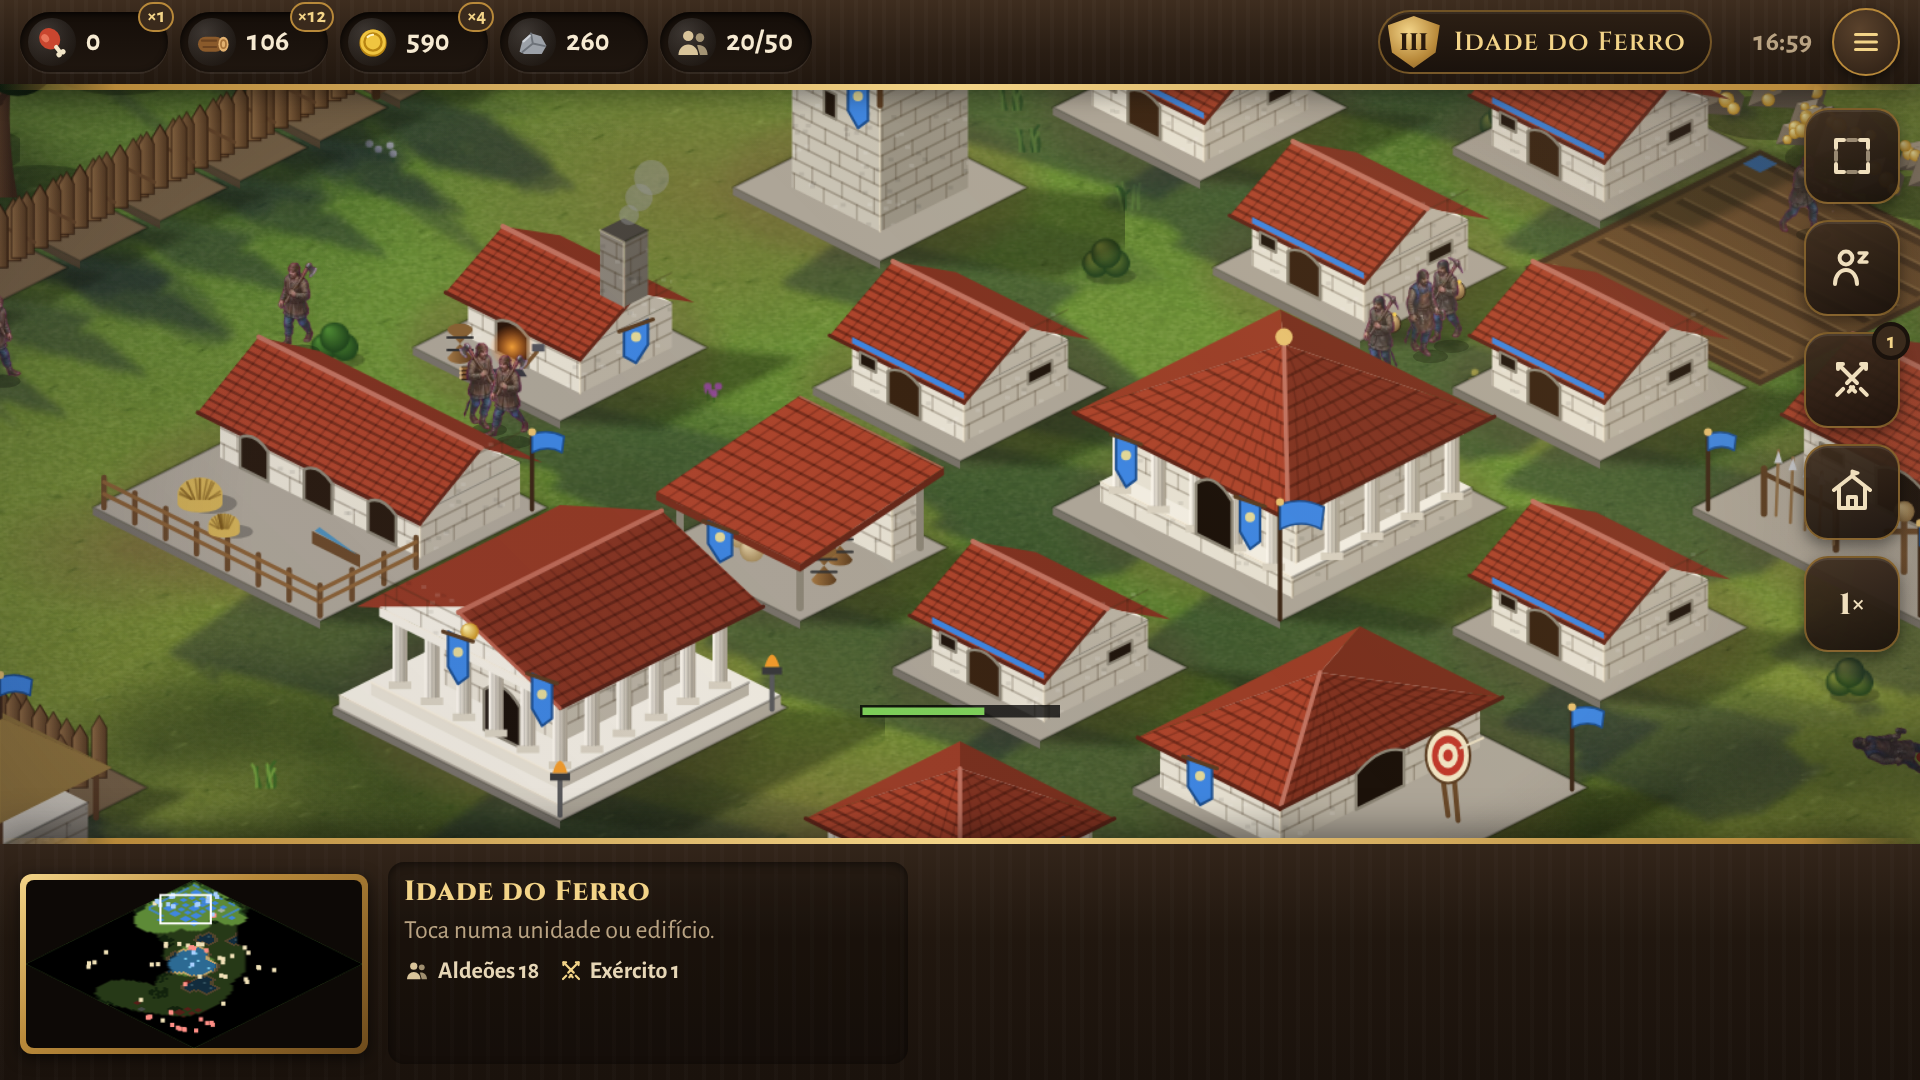
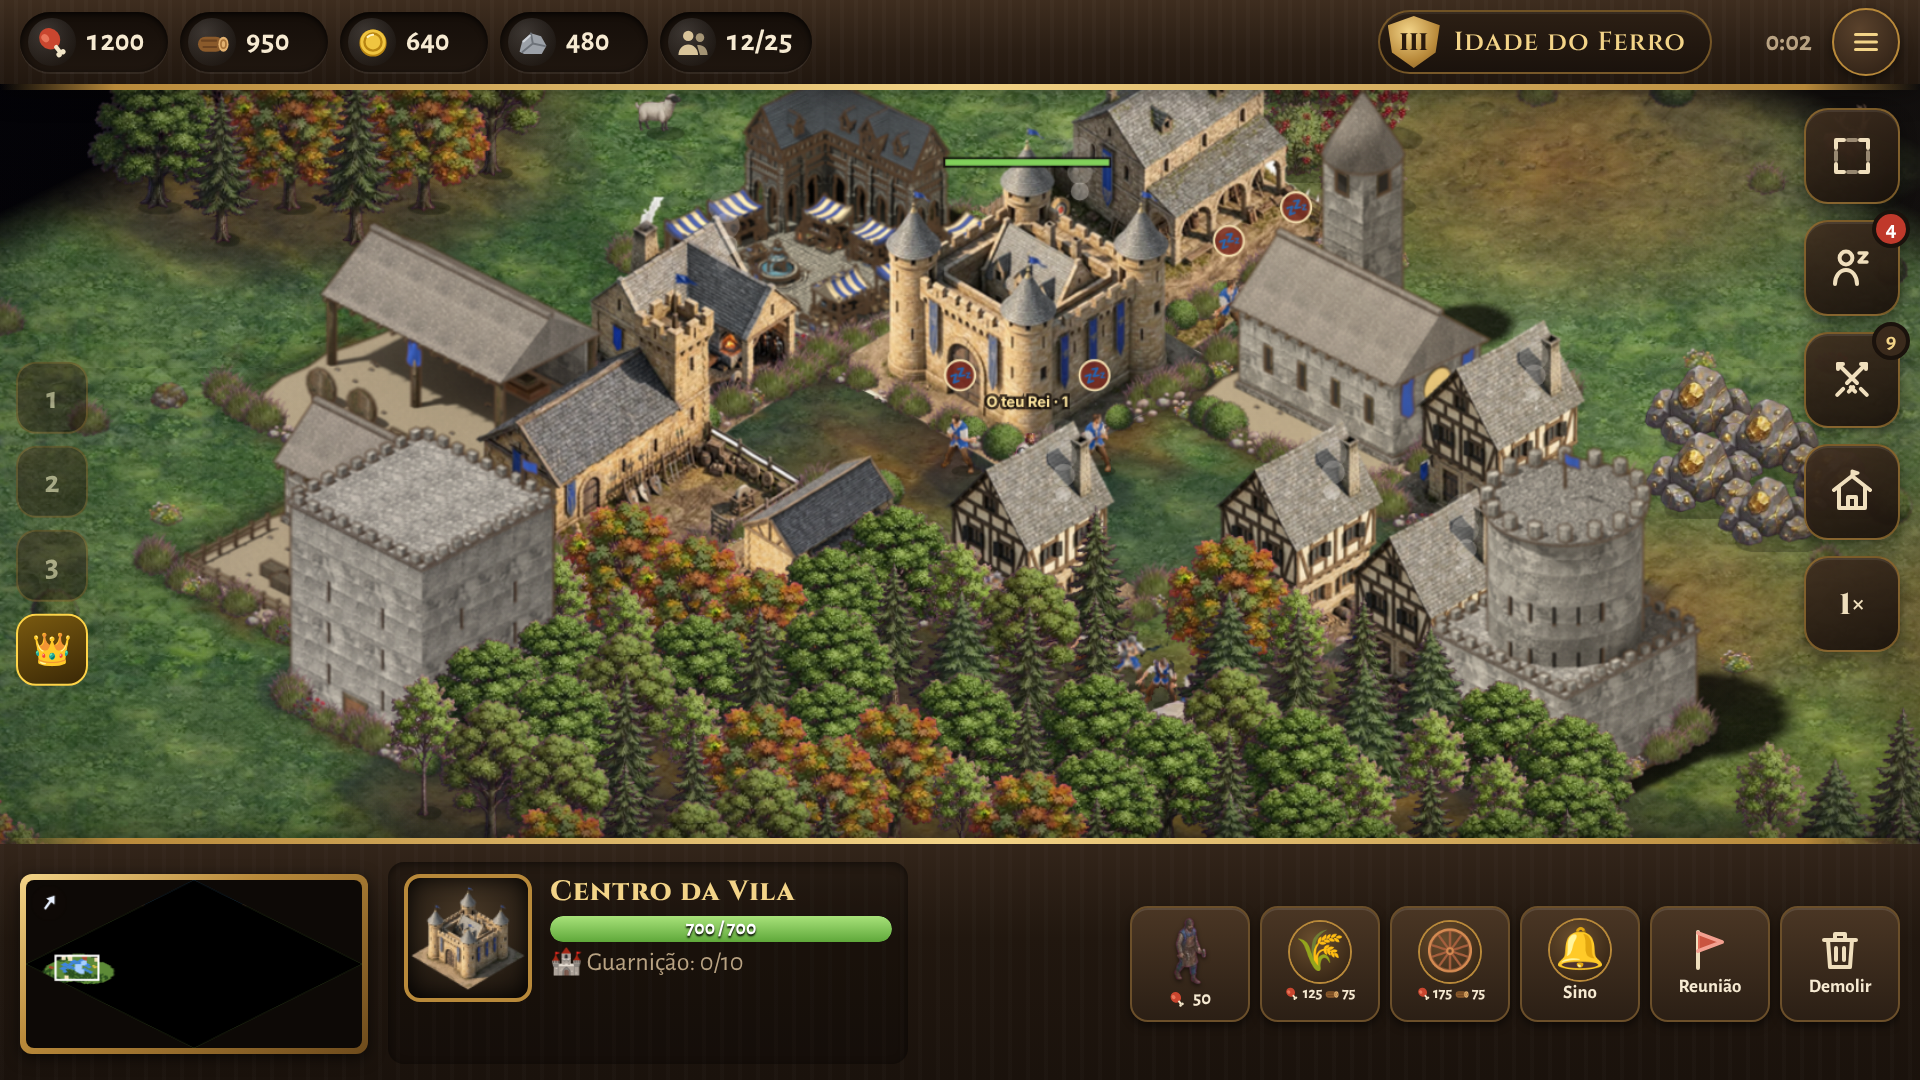
Play Store: capturas novas com a arte 3D (aldeia, batalha nas muralhas, mercado) tiradas do jogo por loja/capturas.py
Claude-Session: https://claude.ai/code/session_014ciWqXDsXJyNB2BSF4RBLv

diff --git a/loja/capturas.py b/loja/capturas.py
@@ -1,0 +1,50 @@
+# Capturas da Play Store (1920×1080) tiradas do jogo a correr, com a arte 3D: aldeia, batalha nas muralhas e mercado.
+# Uso: servidor em localhost:8777 (www) e  python3 loja/capturas.py [pasta-de-saída]
+import asyncio, sys
+from playwright.async_api import async_playwright
+OUT = sys.argv[1] if len(sys.argv) > 1 else 'loja'
+START = """async()=>{startGame(4242,{map:'rios',vic:'classico',civ:['planicies','mar']})}"""
+HELP = """()=>{window.__c=ents.find(e=>e.type==='centro'&&e.o===ME);window.__q0=centerOf(__c);
+  window.__put=(o,t,near,r0=3)=>{for(let r=r0;r<45;r++)for(let a=0;a<64;a++){const tx=Math.round(near.x+Math.cos(a/64*6.283)*r),ty=Math.round(near.y+Math.sin(a/64*6.283)*r);if(canPlace(t,tx,ty,ME,0,true)){const b=mkBld(o,t,tx,ty,true);return b}}return null};
+  window.__free=(x,y,w,h)=>{for(let j=-1;j<=h;j++)for(let i=-1;i<=w;i++){const tx=x+i,ty=y+j;if(!inb(tx,ty)||!okTile(idx(tx,ty))||bldAt[idx(tx,ty)]||resAt[idx(tx,ty)])return false}return true};
+  window.__spot=(w,h,near,r0=4)=>{for(let r=r0;r<70;r++)for(let a=0;a<64;a++){const x=Math.round(near.x+Math.cos(a/64*6.283)*r),y=Math.round(near.y+Math.sin(a/64*6.283)*r);if(__free(x,y,w,h))return{x,y}}return null};
+  for(const p of P)if(p){p.res.food=1200;p.res.wood=950;p.res.gold=640;p.res.stone=480}}"""
+async def cena(br, nome, js, espera=1500):
+    pg = await br.new_page(viewport={'width': 960, 'height': 540}, device_scale_factor=2); errs = []
+    pg.on('pageerror', lambda e: errs.append(str(e)[:200]))
+    await pg.goto('http://localhost:8777/index.html'); await pg.wait_for_timeout(2500)
+    await pg.evaluate(START); await pg.wait_for_timeout(2500)
+    await pg.add_style_tag(content='#sLogin,#menuBg{display:none!important}')
+    await pg.evaluate(HELP); r = await pg.evaluate(js); await pg.wait_for_timeout(espera)
+    if isinstance(r, dict) and r.get('depois'): await pg.evaluate(r['depois']); await pg.wait_for_timeout(r.get('espera2', 1500))
+    await pg.add_style_tag(content='#toast{display:none!important}')
+    await pg.screenshot(path=f'{OUT}/{nome}'); await pg.close(); print(nome, r if not isinstance(r, dict) else {k: v for k, v in r.items() if k != 'depois'}, errs)
+    return errs
+ALDEIA = """()=>{P[ME].age=2;const q0=__q0,made=[];
+  for(const t of ['casa','casa','armazem','quartel','ferreiro','templo','mercado','arquearia','casa','estabulo','casa','oficina']){const b=__put(ME,t,q0,4);if(b)made.push(t)}
+  const t1=__put(ME,'torre',q0,8);if(t1)t1.lvl=3;const t2=__put(ME,'torre',q0,9);if(t2)t2.lvl=2;
+  for(const e of ents)if(e.kind==='u'&&e.o===ME&&e.type==='aldeao'){}
+  for(let k=0;k<8;k++)mkUnit(ME,k%2?'lanceiro':'arqueiro',q0.x+3+k*.5,q0.y+4);
+  cam.z=1.05;centerCam(q0.x+1,q0.y+2);for(const k in BCACHE)delete BCACHE[k];return{made:made.length}}"""
+BATALHA = """()=>{P[ME].age=2;for(let k=0;k<10;k++)__put(ME,'casa',__q0,3);const q=__spot(14,9,__q0,9);const W=(t,x,y)=>mkBld(ME,t,x,y,true);const S=[];
+  S.push(W('muralhaPedra',q.x,q.y+4),W('muralhaPedra',q.x+1,q.y+4),W('portaoPedra',q.x+2,q.y+4),W('muralhaPedra',q.x+3,q.y+4),W('muralhaFort',q.x+4,q.y+4),W('muralhaFort',q.x+5,q.y+4));
+  const t=W('torre',q.x+6,q.y+3);t.lvl=3;S.push(t,W('muralhaFort',q.x+8,q.y+4),W('muralhaFort',q.x+9,q.y+4));const t2=W('torre',q.x+10,q.y+3);t2.lvl=2;S.push(t2,W('muralhaPedra',q.x+12,q.y+4));
+  for(const b of S){if(!b.d.garr)continue;const us=Array.from({length:b.d.garr},(_,k)=>mkUnit(ME,b.type==='torre'?'besteiro':'arqueiro',b.tx+k*.3,b.ty+2.5));act('garrison',{b:b.id,u:us.map(u=>u.id)})}
+  for(let k=0;k<6;k++)mkUnit(ME,k%2?'espadachim':'lanceiro',q.x+3+k*.6,q.y+6.5);
+  window.__q=q;cam.z=1.45;centerCam(q.x+6,q.y+3.5);for(const k in BCACHE)delete BCACHE[k];
+  return{depois:`()=>{const q=__q;const foe=P.findIndex((p,i)=>i!==ME&&p);for(let k=0;k<14;k++){const f=mkUnit(foe,['guerreiro','espadachim','lanceiro'][k%3],q.x+k*.9,q.y-1.5-(k%3)*.6);orderAttack(f,ents.find(e=>e.kind==='b'&&e.o===ME&&e.type==='portaoPedra'))}}`,espera2:3200}}"""
+MERCADO = """()=>{P[ME].age=1;const q0=__q0;const m=__put(ME,'mercado',q0,5);const foe=P.findIndex((p,i)=>i!==ME&&p);
+  for(const t of ['quinta','quinta','quinta','casa','casa','armazem','curral'])__put(ME,t,q0,3);
+  const vs=ents.filter(e=>e.kind==='u'&&e.o===ME&&e.type==='aldeao');for(let k=0;k<6;k++)mkUnit(ME,'aldeao',q0.x+2+k*.4,q0.y+3);
+  const c=mkUnit(ME,'carroca',centerOf(m).x+1,centerOf(m).y+2);
+  const farms=ents.filter(e=>e.kind==='b'&&e.o===ME&&e.d.farm);const rs=ents.filter(e=>e.kind==='r'&&alive(e));let fi=0;
+  for(const v of ents.filter(e=>e.kind==='u'&&e.o===ME&&e.type==='aldeao')){if(fi<farms.length*2){orderGather(v,farms[fi>>1]);fi++}else{const cv=centerOf(v);const r=rs.sort((a,b)=>hyp(a.tx-cv.x,a.ty-cv.y)-hyp(b.tx-cv.x,b.ty-cv.y))[0];if(r)orderGather(v,r)}}
+  const mc=centerOf(m);cam.z=1.3;centerCam((mc.x+q0.x)/2,(mc.y+q0.y)/2);for(const k in BCACHE)delete BCACHE[k];return{mercado:!!m}}"""
+async def main():
+    async with async_playwright() as p:
+        br = await p.chromium.launch(); e = []
+        e += await cena(br, 'captura-2-aldeia.png', ALDEIA)
+        e += await cena(br, 'captura-3-batalha.png', BATALHA)
+        e += await cena(br, 'captura-4-mercado.png', MERCADO, 3000)
+        await br.close(); print('erros', e)
+asyncio.run(main())

diff --git a/loja/FICHA-PLAY-STORE.md b/loja/FICHA-PLAY-STORE.md
@@ -8,7 +8,7 @@ Tudo o que é preciso para publicar na Google Play Console. Copia e cola cada pa
 |---|---|
 | `icone-512.png` | Presença na loja → Ícone da app (512×512) |
 | `grafico-destaque-1024x500.png` | Presença na loja → Gráfico de destaque |
-| `captura-1-menu.png` … `captura-5-tutorial.png` | Presença na loja → Capturas de ecrã do telemóvel (1920×1080) |
+| `captura-1-menu.png`, `captura-2-aldeia.png`, `captura-3-batalha.png`, `captura-4-mercado.png`, `captura-5-tutorial.png` | Presença na loja → Capturas de ecrã do telemóvel (1920×1080) |
 | `app-release.aab` (sai do GitHub Actions, artefacto **alvorada-play-store**) | Testes / Produção → Criar versão |
 
 ## 2. Textos da ficha (português)
